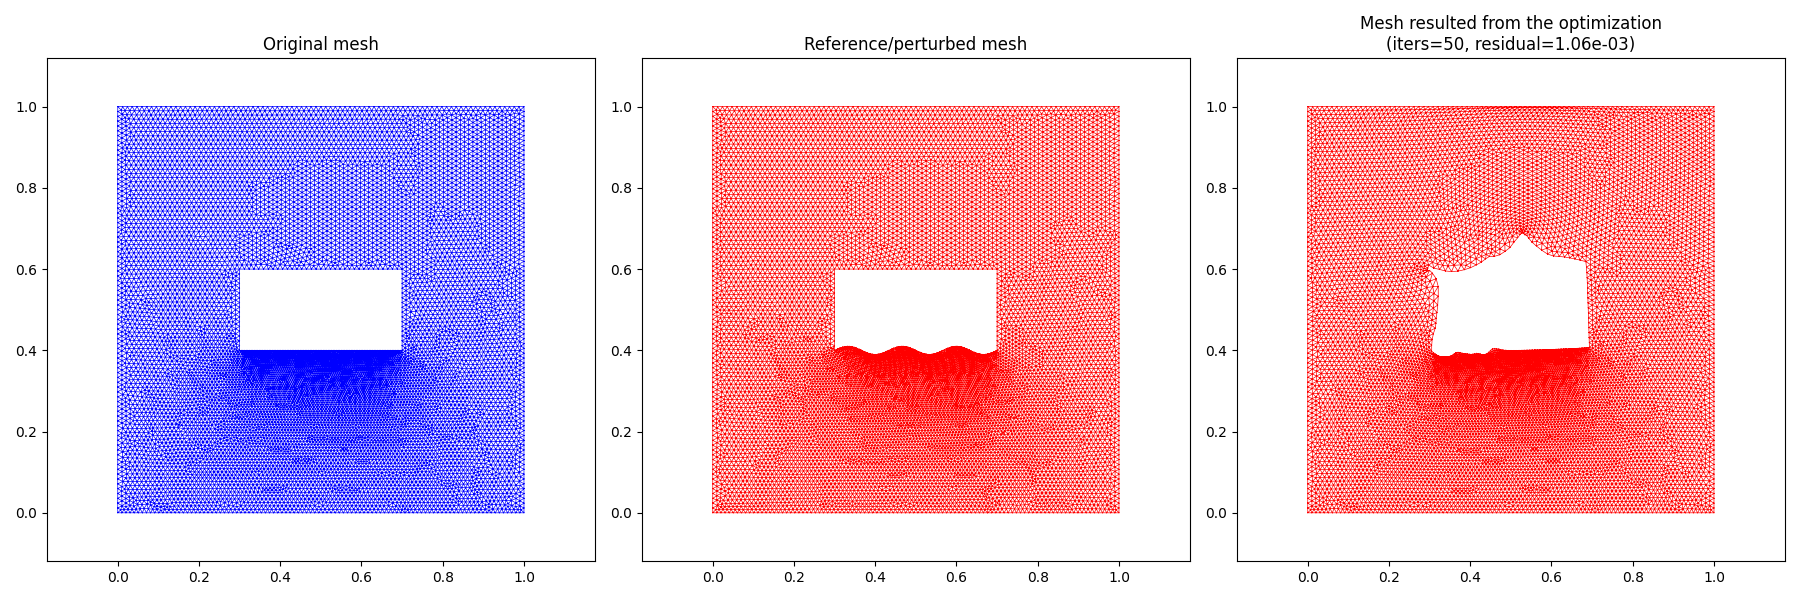
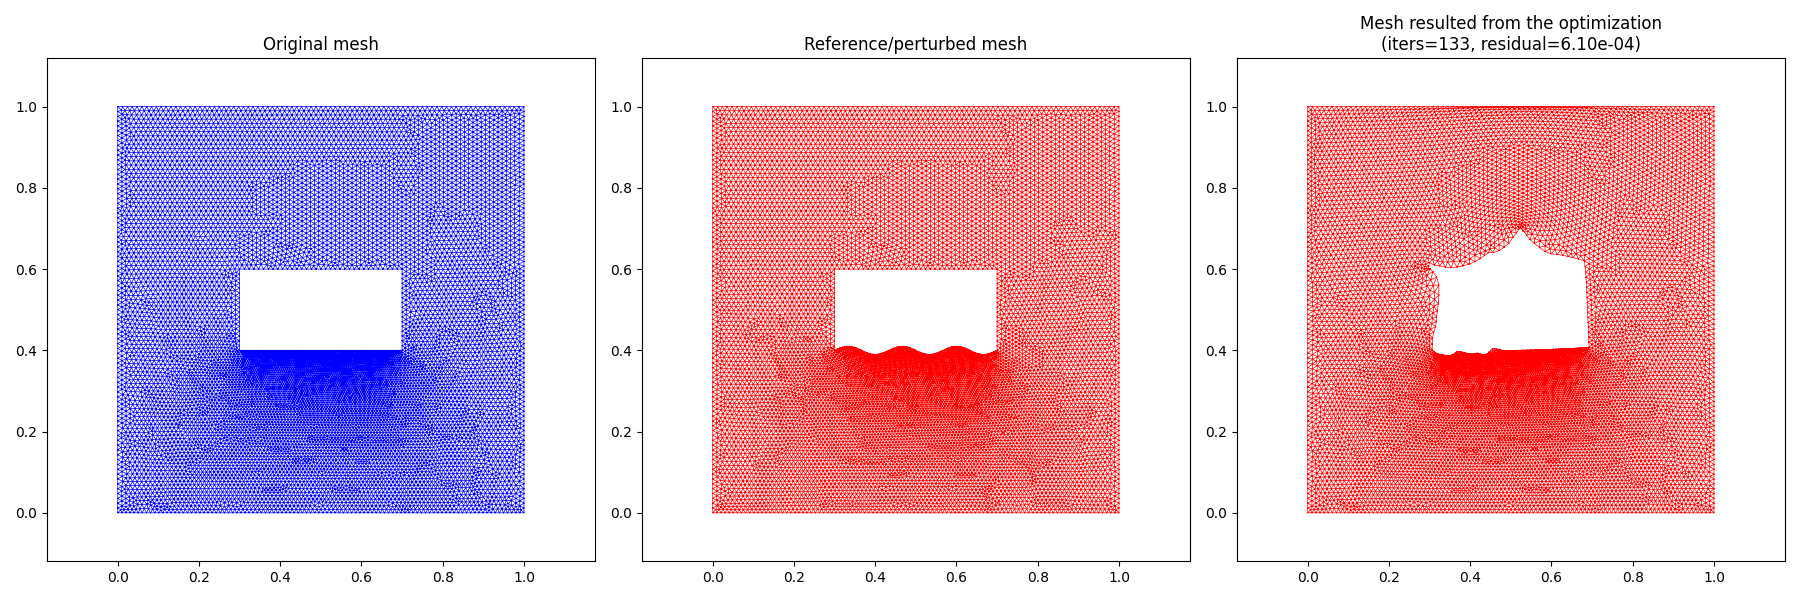
new sets of suboptimal results

Changed region(s): [[0.7156, 0.18, 0.9644, 0.87], [0.7467, 0.06, 0.9333, 0.09]]

diff --git a/opt_obstacle_one_planewave/opt_script.py b/opt_obstacle_one_planewave/opt_script.py
@@ -29,8 +29,8 @@ os.chdir(script_dir)
 #msh_file_path = "meshes/square_with_sym_exp_perturbed_rect.msh"
 msh_file_path = "meshes/square_with_rect_obstacle.msh"
 #goal_geometry_msh_path = "meshes/square_with_sym_exp_perturbed_rect.msh"
-forward_sim_result_file_path = "matlab_measurements.csv"
-result_path = "outputs/result_sin_freq3_matlab.h5"
+forward_sim_result_file_path = "forward_sim_data_bottom.csv"
+result_path = "outputs/result_sin_freq3.h5"
 
 frequency = 5e9
 incident_field_func = plane_wave
@@ -47,8 +47,6 @@ u_tot_mag_dg0, ds_bottom, V_DG0 = helmholtz_solve(mesh, markers, h, hh_setup,
                                                              obstacle_marker, side_wall_marker, bottom_wall_marker)
 # Load reference data
 u_ref_dg0 = assign_reference_data(V_DG0, reference_data_map)
-
-print(u_ref_dg0)
 
 J = assemble((inner(u_tot_mag_dg0 - u_ref_dg0, u_tot_mag_dg0 - u_ref_dg0)* ds_bottom))
 

diff --git a/opt_obstacle_one_planewave/plot.py b/opt_obstacle_one_planewave/plot.py
@@ -17,7 +17,7 @@ msh_file_path = "meshes/square_with_rect_obstacle.msh"
 #msh_file_path = "meshes/square_with_gaussian_perturbed_rect.msh" # To check and see the degree of 
 #msh_file_path = "meshes/square_with_perturbed_rect_obstacle.msh"
 goal_geometry_msh_path = "meshes/square_with_sin_exp_perturbed_rect.msh"
-result_path = "outputs/result_sin_freq3_matlab.h5"
+result_path = "outputs/result_sin_freq3.h5"
 
 plot_mesh_deformation_from_result(
     result_path,
@@ -26,5 +26,5 @@ plot_mesh_deformation_from_result(
     obstacle_marker,
     side_wall_marker,
     bottom_wall_marker,
-    "outputs/mesh_deformation_sin_freq3_matlab.png"
+    "outputs/mesh_deformation_sin_freq3.png"
 )
